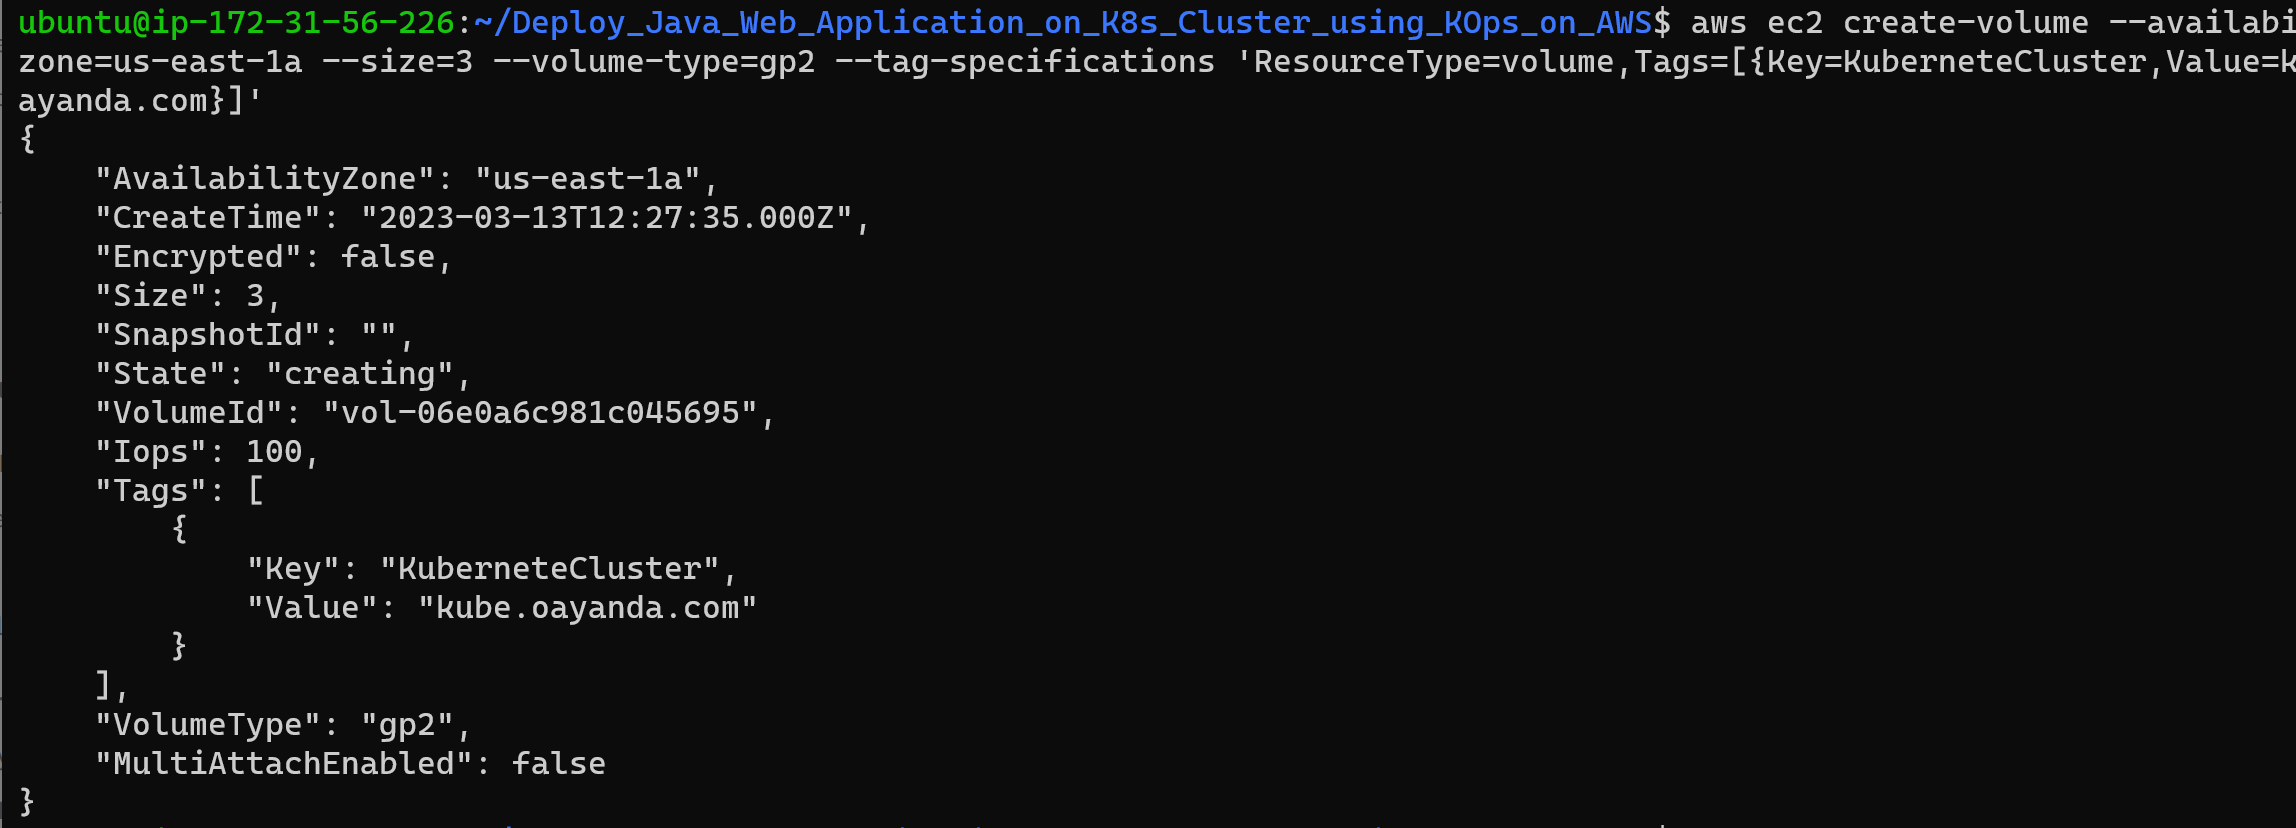
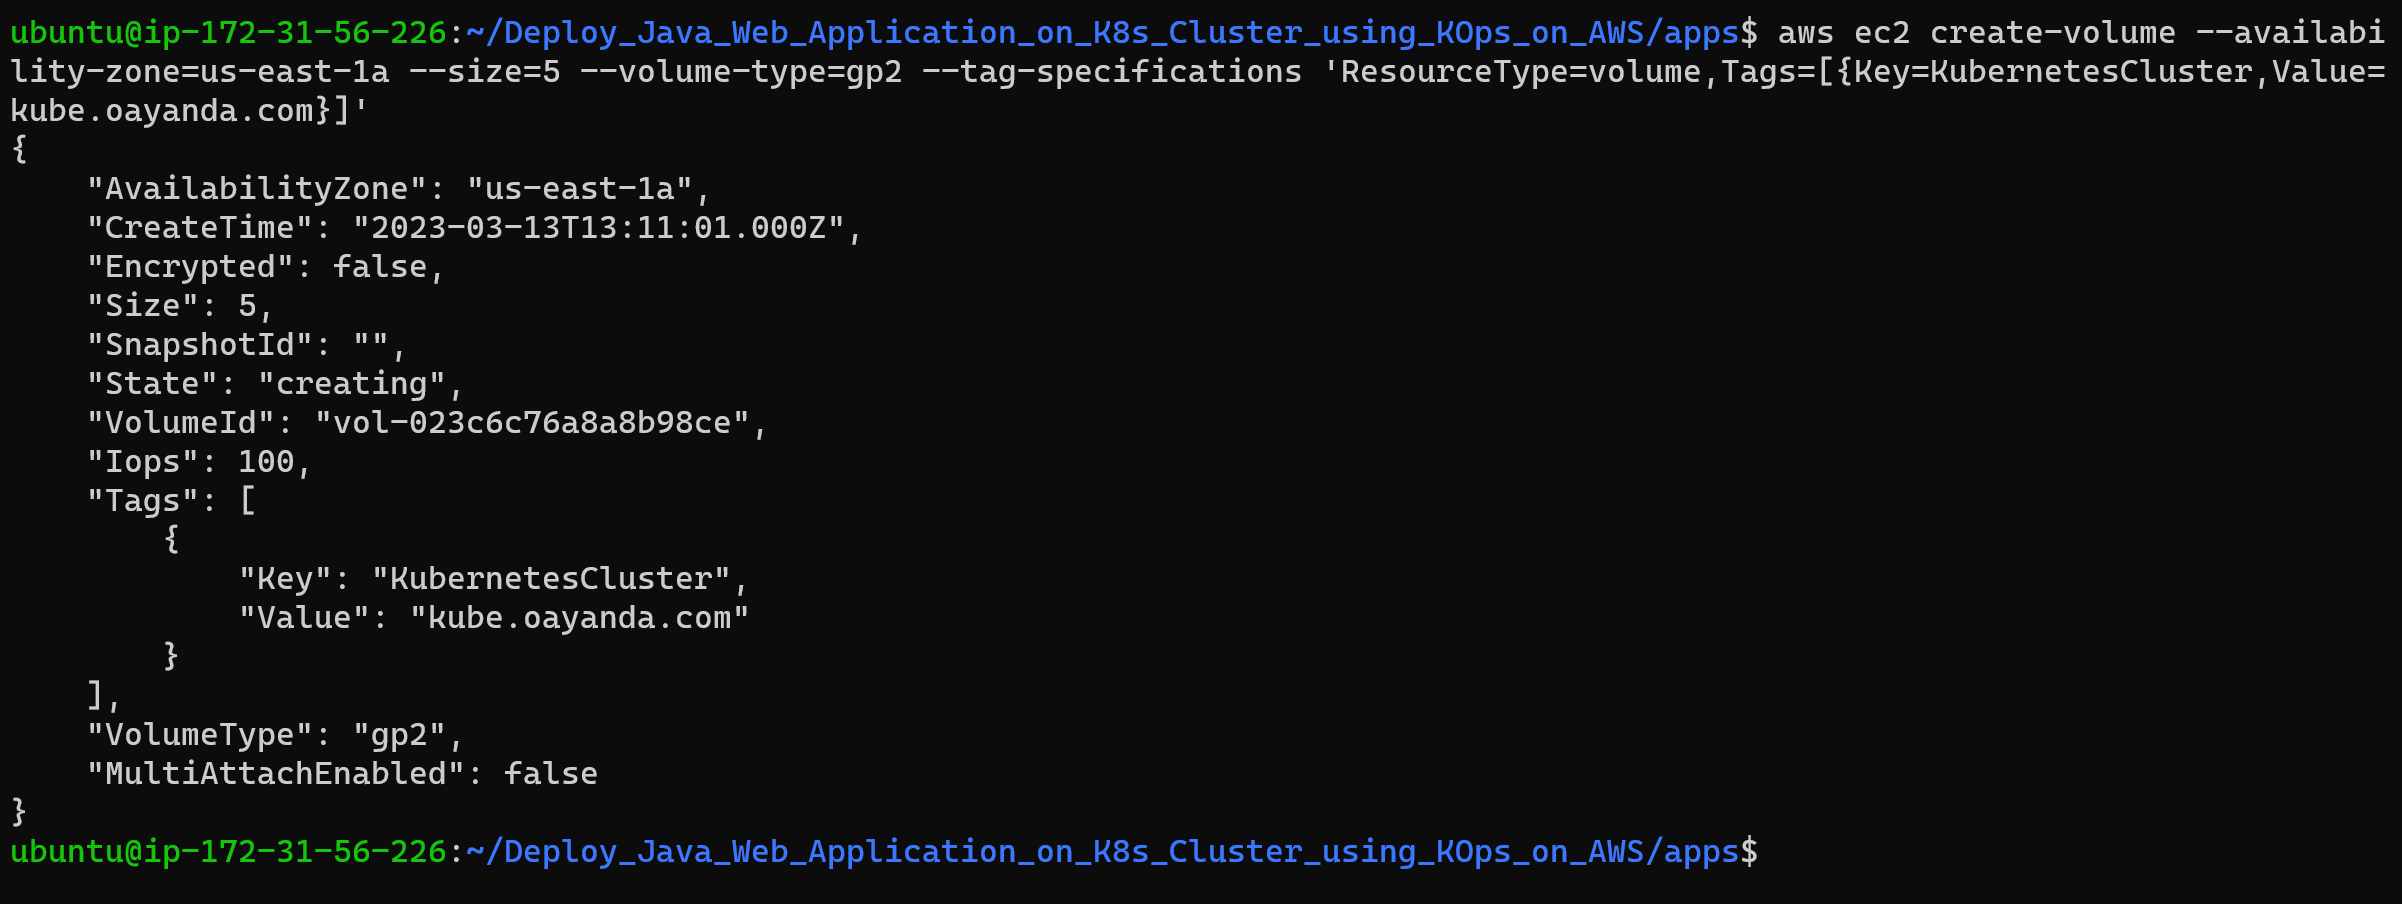
updated volumeID

diff --git a/README.md b/README.md
@@ -29,10 +29,10 @@ kops validate cluster  --state=s3://oayanda-kops-state
 
 ![validate cluster](./images/3.png)
 
-Create Persistent Volume for DB Node and copy the volume ID for later use. *vol-06e0a6c981c045695* and the AZ *us-east-1a*.
+Create Persistent Volume for DB Node and copy the volume ID for later use. *vol-023c6c76a8a8b98ce* and the AZ *us-east-1a*.
 
 ```bash
-aws ec2 create-volume --availability-zone=us-east-1a --size=5 --volume-type=gp2 --tag-specifications 'ResourceType=volume,Tags=[{Key=KuberneteCluster,Value=kube.oayanda.com}]'
+aws ec2 create-volume --availability-zone=us-east-1a --size=5 --volume-type=gp2 --tag-specifications 'ResourceType=volume,Tags=[{Key=KubernetesCluster,Value=kube.oayanda.com}]'
 ```
 
 > ***Note:** For volume mapping, make sure the value of the tag is the same as your k8scluster.*
